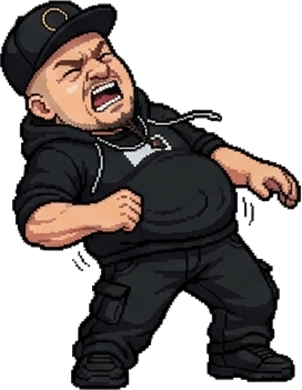
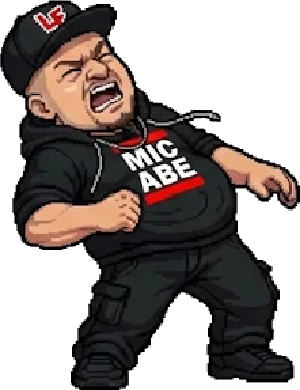
CHR con poleron MIC ABE y gorro LF en todas sus poses, con dibujos propios mirando a la izquierda para que las letras se lean al derecho; la variante verde pone la calavera sobre las letras LF

diff --git a/src/game.js b/src/game.js
@@ -69,6 +69,13 @@ function loadSprites(ch, only, urgent) {
     if (!img || set[pose]) return;
     const out = ch.recolor ? recolor(img, ch) : img; out._footX = footCenter(out); set[pose] = out;
     if (pose === 'idle') renderSelect();
+    // dibujo propio mirando a la izquierda (ropa con letras): se guarda volteado para que el juego lo dé vuelta como siempre
+    if (ch.spriteLeft && ch.spriteLeft[pose]) return Loader.img(ch.spriteLeft[pose], urgent).then(li => {
+      if (!li) return;
+      const c = document.createElement('canvas'); c.width = li.width; c.height = li.height;
+      const g = c.getContext('2d'); g.translate(li.width, 0); g.scale(-1, 1); g.drawImage(li, 0, 0);
+      const l = ch.recolor ? recolor(c, ch) : c; l._footX = footCenter(l); out._L = l;
+    });
   })));
 }
 // ---------- colores alternativos (jefe suplente, mismo rapero en los dos lados) ----------
@@ -95,13 +102,12 @@ function recolor(img, ch) {
   for (let i = 0; i < d.length; i += 4) {
     if (d[i + 3] < 40) continue;
     const r = d[i], gg = d[i + 1], b = d[i + 2], sat = Math.max(r, gg, b) - Math.min(r, gg, b), L = (r * 3 + gg * 6 + b) / 10, hue = hueOf(r, gg, b);
-    if (ch.skull && hue > 20 && hue < 75 && sat >= 15 && L > 40 && L < 175 && amidDark(id, i >> 2)) gold.push(i >> 2);
-    // negro/gris de la ropa (la barba y la piel son cálidas: no se tiñen)
+    if (ch.skull && hue > 20 && hue < 75 && sat >= 15 && L > 40 && L < 175 && amidDark(id, i >> 2)) gold.push(i >> 2);    // negro/gris de la ropa (la barba y la piel son cálidas: no se tiñen)
     if (tint && L >= 14 && L < 115 && (sat < 12 || (sat < 28 && (hue < 10 || hue > 50)))) { const k = L / 60; d[i] = Math.min(255, tint[0] * k); d[i + 1] = Math.min(255, tint[1] * k); d[i + 2] = Math.min(255, tint[2] * k); }
     // ropa de color: se salta el rango de la piel; los rojos solo si son oscuros (no los labios)
     else if (o.hue && sat > 50 && ((hue >= 50 && hue <= 330) || ((hue < 12 || hue > 330) && L < 110))) [d[i], d[i + 1], d[i + 2]] = rotateHue(r, gg, b, o.hue);
   }
-  const ring = ch.skull && capLogo(gold, c.width);
+  const ring = ch.skull && (capLogo(gold, c.width) || capLetters(id));
   if (ring) skullOver(d, c.width, ring, tint || [30, 30, 30]);
   g.putImageData(id, 0, 0);
   return c;
@@ -133,6 +139,41 @@ function capLogo(gold, w) {
     if (!best || comp.length > best.length) best = comp;
   }
   return best;
+}
+// gorro con letras (LF del Bruto): manchas de rojo puro en el tercio de arriba; se elige la más rodeada de tela negra
+// (no la lata ni el logo del pecho) y se tapa con la calavera junto con su borde blanco
+function capLetters(id) {
+  const w = id.width, H = id.height, s = id._orig, top = w > H ? H : Math.floor(H * 0.3); // acostado (caída): el gorro puede estar en el suelo
+  const pure = p => { const j = p * 4; return s[j + 3] > 40 && s[j] > 120 && s[j] - s[j + 1] > 80 && s[j] - s[j + 2] > 70; };
+  const blackAt = (x, y) => { if (x < 0 || y < 0 || x >= w || y >= H) return false; const j = (y * w + x) * 4; return s[j + 3] > 40 && s[j] < 60 && s[j + 1] < 60 && s[j + 2] < 60; };
+  const seen = new Uint8Array(w * top), comps = []; let best = null, bestDark = 0.3;
+  for (let p0 = 0; p0 < w * top; p0++) {
+    if (seen[p0] || !pure(p0)) continue;
+    const q = [p0]; seen[p0] = 1; let x0 = w, y0 = H, x1 = 0, y1 = 0, n = 0;
+    while (q.length) { const p = q.pop(), x = p % w, y = (p / w) | 0; n++; x0 = Math.min(x0, x); x1 = Math.max(x1, x); y0 = Math.min(y0, y); y1 = Math.max(y1, y);
+      for (let dy = -3; dy <= 3; dy++) for (let dx = -3; dx <= 3; dx++) { const xx = x + dx, yy = y + dy; if (xx < 0 || yy < 0 || xx >= w || yy >= top) continue; const r = yy * w + xx; if (!seen[r] && pure(r)) { seen[r] = 1; q.push(r); } } }
+    if (n < 6 || x1 - x0 > 45 || y1 - y0 > 45) continue;
+    const box = [x0, y0, x1, y1]; comps.push(box);
+    if (Math.max(x1 - x0, y1 - y0) + 1 > 3 * (Math.min(x1 - x0, y1 - y0) + 1)) continue; // franja larga: barra del logo del pecho
+    let dk = 0, m = 0; // borde de la mancha, 5 px afuera: ¿tela negra del gorro?
+    for (let x = x0 - 5; x <= x1 + 5; x += 2) { m += 2; dk += blackAt(x, y0 - 5) + blackAt(x, y1 + 5); }
+    for (let y = y0 - 5; y <= y1 + 5; y += 2) { m += 2; dk += blackAt(x0 - 5, y) + blackAt(x1 + 5, y); }
+    if (dk / m > bestDark) { bestDark = dk / m; best = box.slice(); }
+  }
+  if (!best) return null;
+  // la L y la F pueden salir como manchas separadas: se suman las vecinas
+  for (let grew = true; grew;) { grew = false;
+    for (const b of comps) {
+      if (b[0] >= best[0] && b[1] >= best[1] && b[2] <= best[2] && b[3] <= best[3]) continue;
+      const gx = Math.max(b[0] - best[2], best[0] - b[2]), gy = Math.max(b[1] - best[3], best[1] - b[3]);
+      if (gx <= 18 && gy <= 8 && Math.max(b[2], best[2]) - Math.min(b[0], best[0]) <= 55 && Math.max(b[3], best[3]) - Math.min(b[1], best[1]) <= 45) { best = [Math.min(b[0], best[0]), Math.min(b[1], best[1]), Math.max(b[2], best[2]), Math.max(b[3], best[3])]; grew = true; }
+    } }
+  const [x0, y0, x1, y1] = best, out = [];
+  for (let y = Math.max(0, y0 - 3); y <= Math.min(H - 1, y1 + 3); y++) for (let x = Math.max(0, x0 - 3); x <= Math.min(w - 1, x1 + 3); x++) {
+    const j = (y * w + x) * 4, r = s[j], g = s[j + 1], b = s[j + 2];
+    if (s[j + 3] > 40 && ((r > 100 && r - g > 75 && r - b > 65) || (Math.min(r, g, b) > 150))) out.push(y * w + x);
+  }
+  return out;
 }
 // calavera en pixel art donde estaba el logo del gorro (mismo tamaño de pixel que el dibujo)
 const SKULL = ['..####..', '.######.', '########', '#..##..#', '#..##..#', '###..###', '.######.', '.#.##.#.'];
@@ -2298,7 +2339,8 @@ function drawSpriteFighter(f, set) {
     const s = f.sf, endAct = mv.startup + mv.active;
     if (s < mv.startup || s > endAct + mv.recovery * 0.6) pose = 'idle';
   }
-  const [img, got] = pickSprite(set, pose);
+  let [img, got] = pickSprite(set, pose);
+  if (fc < 0 && img._L) img = img._L; // mirando a la izquierda: su dibujo propio (las letras de la ropa se leen al derecho)
   const fallback = (got === 'idle' && pose !== 'idle') || (pose === 'idle' && f.state === 'attack');
   // una caída dibujada de pie (golpe o mareo) se tumba; una ya acostada se dibuja tal cual
   const koLying = pose === 'fall' && img.width > img.height;
@@ -2995,7 +3037,7 @@ function vsSides(c1, c2) {
   [['L', c1], ['R', c2]].forEach(([s, ch]) => {
     const cv = $('vsCan' + s), g = cv.getContext('2d'), set = spriteSet(ch);
     g.clearRect(0, 0, cv.width, cv.height); g.imageSmoothingEnabled = false;
-    const img = set ? set.idle : portrait(ch, 400), k = Math.min(cv.width / img.width, cv.height / img.height);
+    const img = set ? (s === 'R' && set.idle._L) || set.idle : portrait(ch, 400), k = Math.min(cv.width / img.width, cv.height / img.height);
     g.drawImage(img, (cv.width - img.width * k) / 2, cv.height - img.height * k, img.width * k, img.height * k);
     cv.parentElement.style.setProperty('--c', ch.accent);
     $('vsName' + s).textContent = ch.name;

diff --git a/src/roster.js b/src/roster.js
@@ -216,6 +216,9 @@ window.ROSTER = [
     boss: true, locked: true, home: 'Estudio del Bruto',
     // falta: pose de super (finisher); su victoria de pelea es bebiendo una Baltica
     sprite: poses('assets/fighters/bruto/', ['idle', 'punch', 'punchH', 'kick', 'kickH', 'jumpUp', 'jumpFwd', 'block', 'hit', 'dizzy', 'fall', 'taunt', 'winRound', 'winMatch', 'punch2', 'kick2', 'smoke1', 'smoke2', 'drink', 'finisher', 'airpunch', 'airkick', ...MOVE_POSES]),
+    // dibujos propios mirando a la izquierda: el logo MIC ABE y el LF del gorro se leen al derecho en el lado derecho
+    // (las poses que no estén aquí se voltean como siempre; faltan dashBack, crouch y crouchDodge)
+    spriteLeft: poses('assets/fighters/bruto/izq/', ['idle', 'punch', 'punchH', 'punch2', 'block', 'kick', 'kickH', 'kick2', 'hit', 'jumpUp', 'jumpFwd', 'airpunch', 'airkick', 'dizzy', 'fall', 'taunt', 'winRound', 'winMatch', 'smoke1', 'smoke2', 'drink', 'finisher', 'walk1', 'walk2', 'dashFwd']),
     spriteHeight: 250,
     winSfx: 'can', // al ganar la pelea abre y se toma la lata
     skin: '#e0b08a', hairColor: '#3b2414',
